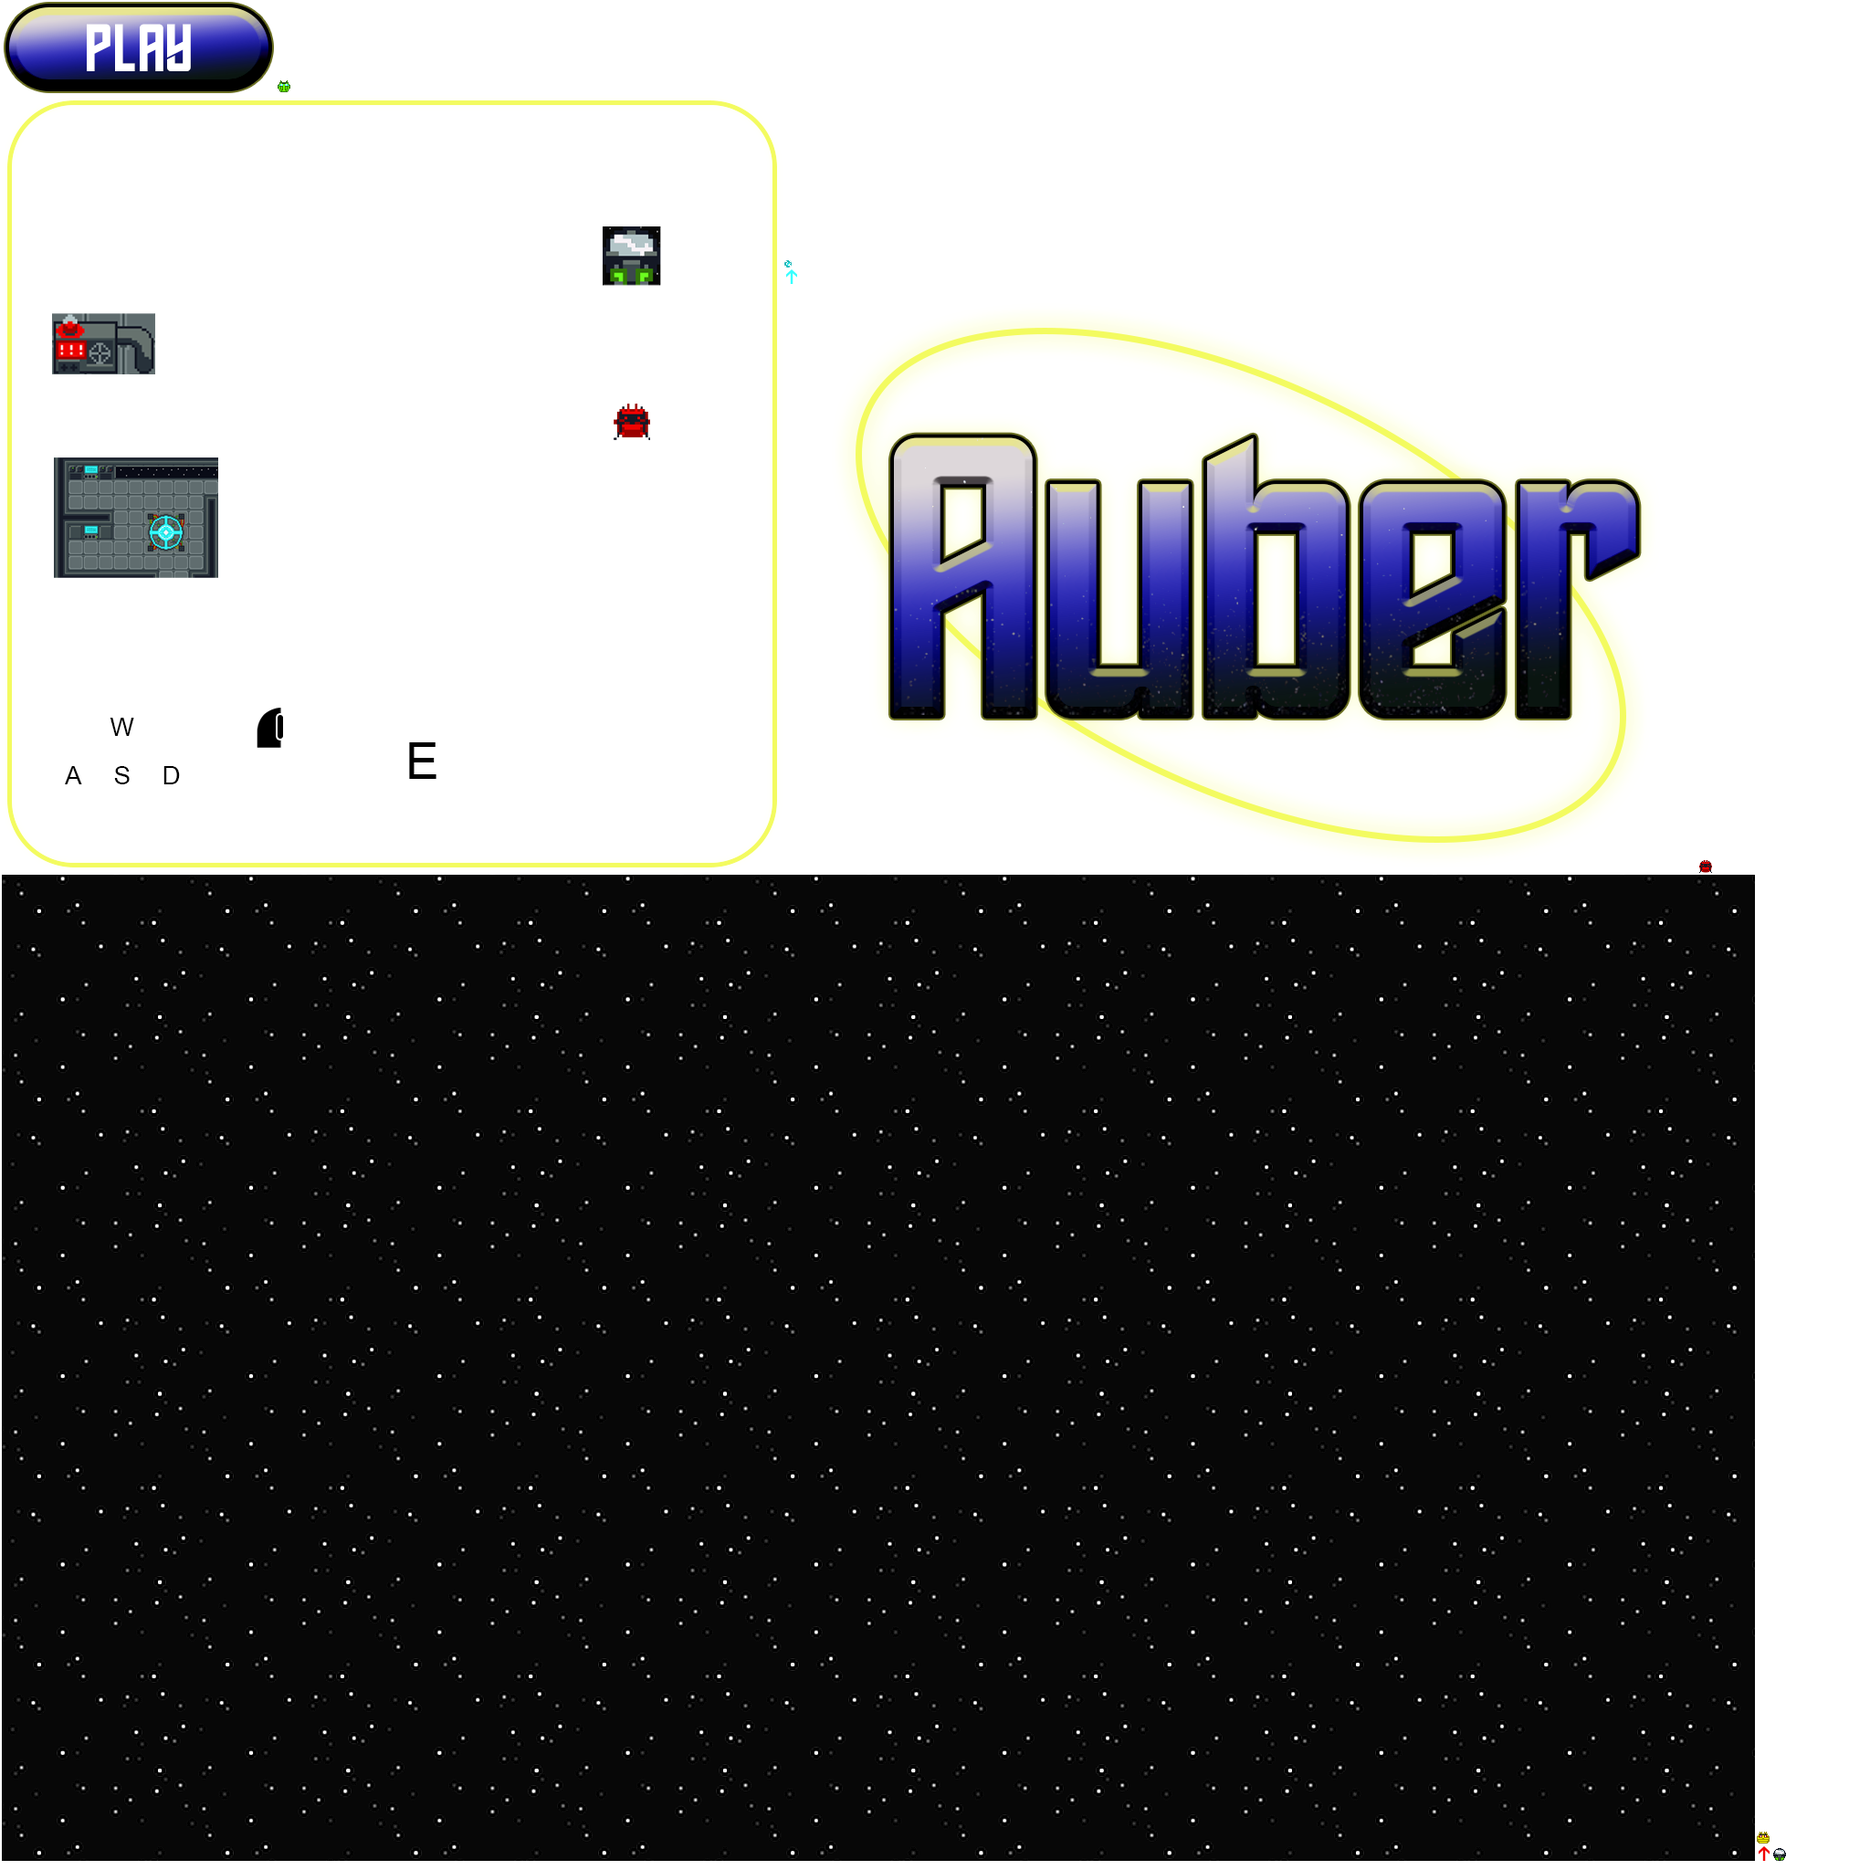
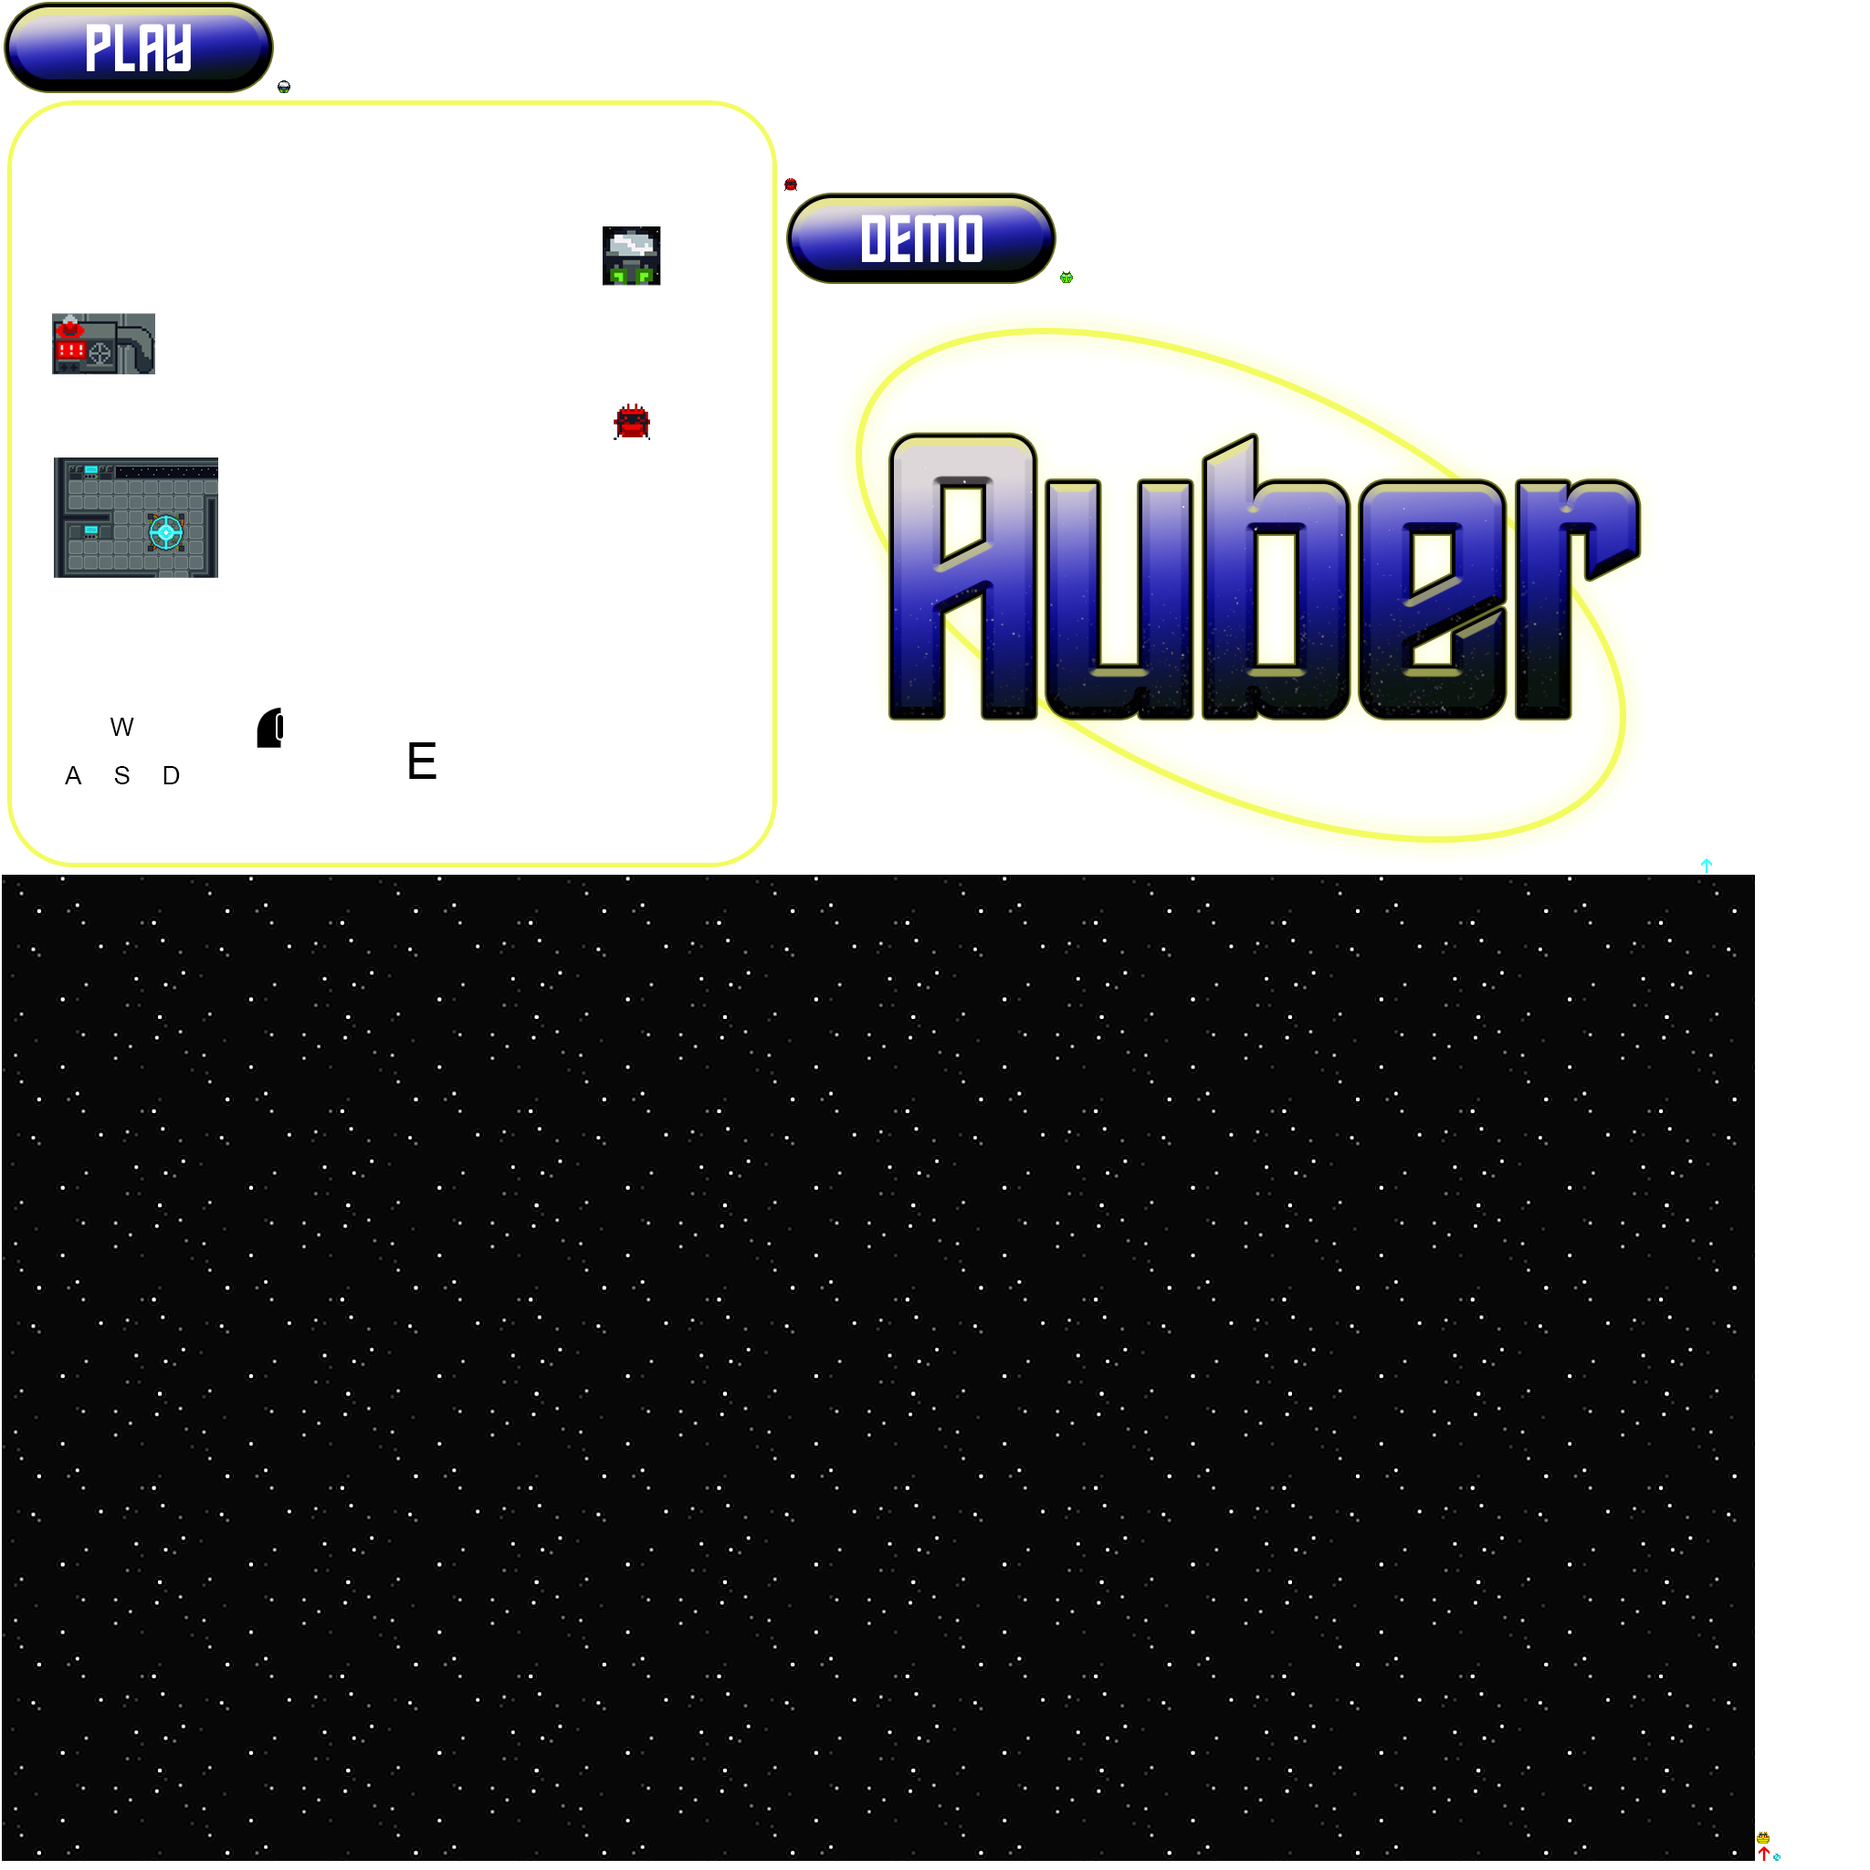
Minor patches and documentation

Changed region(s): [[0.4062, 0.0938, 0.5625, 0.1562]]

diff --git a/docs/index.html b/docs/index.html
@@ -36,6 +36,8 @@
             <p><a href="https://drive.google.com/file/d/1b0WwViahdJieSLp-3hllBW_WbkHII0A9/view?usp=sharing">Build 6 [15/11/2020]</a></p>
             <p><a href="https://drive.google.com/file/d/1KB9dTB3H7jzaiYgokorHxR-agDGJjYHX/view?usp=sharing">Build 7 [23/11/2020]</a></p>
             <p><a href="https://drive.google.com/file/d/1qX3ZOBYz0F82QzppGx49z7LwMZE-JmbS/view?usp=sharing">Release Candidate 1</a></p>
+            <p><a href="https://drive.google.com/file/d/1Tz0rxqM8xz5jIVdVNi4czY7Xiu7SDz0z/view?usp=sharing">Release Candidate 2</a></p>
+            <p><a href="https://drive.google.com/file/d/1jZQ6Hs0jpN5ZhrIdE0khuhEInpy4adUb/view?usp=sharing">Final Build</a></p>
             <h3 id="assessment-documents">Assessment Documents</h3>
             <p><a href="pdfs/auberbrief.pdf">Auber Brief</a></p>
             <p><a href="pdfs/assessmentbrief.pdf">Assessment Brief</a></p>

diff --git a/core/src/com/threecubed/auber/pathfinding/NavigationMesh.java b/core/src/com/threecubed/auber/pathfinding/NavigationMesh.java
@@ -3,8 +3,7 @@ package com.threecubed.auber.pathfinding;
 import com.badlogic.gdx.maps.tiled.TiledMapTileLayer;
 import com.badlogic.gdx.maps.tiled.TiledMapTileLayer.Cell;
 import com.badlogic.gdx.math.Vector2;
-import com.threecubed.auber.World;
-
+import com.threecubed.auber.entities.GameEntity;
 import java.util.ArrayList;
 import java.util.Arrays;
 import java.util.Collections;
@@ -222,7 +221,32 @@ public class NavigationMesh {
   }
 
   /**
-   * Return the euclidian distance between 2 points.
+   * Get the coordinates of the furthest point from the given entity.
+   *
+   * @param entity The entity to find the furthest point from
+   * @return The world coordinates of the furthest point from this entity
+   * */
+  public Vector2 getFurthestPointFromEntity(GameEntity entity) {
+    int[] tileCoordinates = getTilemapCoordinates(entity.position.x, entity.position.y);
+    float longestDistance = 0;
+    int[] longestDistanceCoordinates = {0, 0};
+    for (int y = 0; y < mesh.length; y++) {
+      for (int x = 0; x < mesh[0].length; x++) {
+        if (cellAccessible(x, y)) {
+          int[] currentCellCoords = {x, y};
+          float distance = getEuclidianDistance(tileCoordinates, currentCellCoords);
+          if (distance > longestDistance) {
+            longestDistance = distance;
+            longestDistanceCoordinates = currentCellCoords;
+          }
+        }
+      }
+    }
+    return getWorldCoordinates(longestDistanceCoordinates[0], longestDistanceCoordinates[1]);
+  }
+
+  /**
+   * Return the euclidian distance between 2 float arrays (world coordinates).
    *
    * @param firstPoint The first point to test from
    * @param secondPoint The second point to test from
@@ -235,6 +259,14 @@ public class NavigationMesh {
     return (float) Math.sqrt(Math.pow(horizontalDistance, 2) + Math.pow(verticalDistance, 2));
   }
 
+  /**
+   * Return the euclidian distance between 2 integer arrays (tilemap coordinates).
+   *
+   * @param firstPoint The first point to test from
+   * @param secondPoint The second point to test from
+   *
+   * @return The euclidian distance between the 2 points
+   * */
   public static float getEuclidianDistance(int[] firstPoint, int[] secondPoint) {
     float[] convertedFirstPoint = {(float) firstPoint[0], (float) firstPoint[1]};
     float[] convertedSecondPoint = {(float) secondPoint[0], (float) secondPoint[1]};

diff --git a/core/src/com/threecubed/auber/entities/Infiltrator.java b/core/src/com/threecubed/auber/entities/Infiltrator.java
@@ -22,12 +22,24 @@ public class Infiltrator extends Npc {
   public boolean exposed = false;
   Sprite unexposedSprite;
 
+  /**
+   * Initialise an infiltrator at given coordinates.
+   *
+   * @param x The x position of the infiltrator
+   * @param y The y position of the infiltrator
+   * @param world The game world
+   * */
   public Infiltrator(float x, float y, World world) {
     super(x, y, world);
     navigateToRandomSystem(world);
 
   }
 
+  /**
+   * Initialise the infiltrator at a random position.
+   *
+   * @param world The game world
+   * */
   public Infiltrator(World world) {
     super(world);
     navigateToRandomSystem(world);
@@ -52,7 +64,7 @@ public class Infiltrator extends Npc {
     if (oldState != States.FLEEING) {
       if (!playerNearby(world)
           && Utils.randomFloatInRange(world.randomNumberGenerator, 0, 1)
-          > World.SYSTEM_SABOTAGE_CHANCE) {
+          < World.SYSTEM_SABOTAGE_CHANCE) {
         attackNearbySystem(world);
       } else {
         idleForGivenTime(world, Utils.randomFloatInRange(world.randomNumberGenerator, 5f, 8f));
@@ -61,7 +73,7 @@ public class Infiltrator extends Npc {
   }
 
   @Override
-  public void handleTeleporterShot(World world) {
+  public void handleTeleporterShot(final World world) {
     if (state == States.ATTACKING_SYSTEM) {
       RectangleMapObject system = getNearbyObjects(World.map);
       if (system != null) {
@@ -74,7 +86,18 @@ public class Infiltrator extends Npc {
       exposed = true;
       fireProjectileAtPlayer(world);
       sprite = world.atlas.createSprite("infiltrator");
-      navigateToNearestFleepoint(world);
+      state = States.FLEEING;
+      navigateToFurthestPointFromPlayer(world);
+      npcTimer.scheduleTask(new Task() {
+        @Override
+        public void run() {
+          if (exposed) {
+            fireProjectileAtPlayer(world);
+          } else {
+            cancel();
+          }
+        }
+      }, World.INFILTRATOR_FIRING_INTERVAL, World.INFILTRATOR_FIRING_INTERVAL);
     } else {
       position.x = Utils.randomFloatInRange(world.randomNumberGenerator,
           World.BRIG_BOUNDS[0][0], World.BRIG_BOUNDS[1][0]);

diff --git a/core/src/com/threecubed/auber/entities/Npc.java b/core/src/com/threecubed/auber/entities/Npc.java
@@ -1,13 +1,11 @@
 package com.threecubed.auber.entities;
 
-import com.badlogic.gdx.graphics.Texture;
 import com.badlogic.gdx.graphics.g2d.Sprite;
 import com.badlogic.gdx.maps.objects.RectangleMapObject;
 import com.badlogic.gdx.math.Circle;
 import com.badlogic.gdx.math.Vector2;
 import com.badlogic.gdx.utils.Timer;
 import com.badlogic.gdx.utils.Timer.Task;
-import com.threecubed.auber.AuberGame;
 import com.threecubed.auber.Utils;
 import com.threecubed.auber.World;
 import com.threecubed.auber.pathfinding.NavigationMesh;
@@ -133,6 +131,16 @@ public abstract class Npc extends GameEntity {
   }
 
   /**
+   * Navigate to the furthest point from the player.
+   *
+   * @param world The game world
+   * */
+  public void navigateToFurthestPointFromPlayer(World world) {
+    Vector2 furthestPoint = navigationMesh.getFurthestPointFromEntity(world.player);
+    currentPath = navigationMesh.generateWorldPathToPoint(position, furthestPoint);
+  }
+
+  /**
    * Control the state the NPC is in and fire any necessary events when need be.
    *
    * @param world The game world
@@ -219,10 +227,12 @@ public abstract class Npc extends GameEntity {
     npcTimer.scheduleTask(new Task() {
       @Override
       public void run() {
-        state = States.NAVIGATING;
+        if (aiEnabled) {
+          state = States.NAVIGATING;
 
-        // Pick new system to navigate to
-        navigateToRandomSystem(world);
+          // Pick new system to navigate to
+          navigateToRandomSystem(world);
+        }
       }
     }, seconds);
   }

diff --git a/core/src/com/threecubed/auber/entities/Player.java b/core/src/com/threecubed/auber/entities/Player.java
@@ -93,16 +93,17 @@ public class Player extends GameEntity {
 
 
       if (Gdx.input.isButtonPressed(Input.Buttons.LEFT) && teleporterRayCoordinates.isZero()) {
-        world.auberTeleporterCharge = Math.min(world.auberTeleporterCharge + World.AUBER_CHARGE_RATE,
-                                               1f);
+        world.auberTeleporterCharge = Math.min(world.auberTeleporterCharge
+            + World.AUBER_CHARGE_RATE, 1f);
       } else {
         if (world.auberTeleporterCharge > 0.95f) {
           world.auberTeleporterCharge = 0;
 
           // Scare entities
+          teleporterRayCoordinates = handleRayCollisions(world);
           for (GameEntity entity : world.getEntities()) {
             float entityDistance = NavigationMesh.getEuclidianDistance(
-                new float[] {position.x, position.y},
+                new float[] {teleporterRayCoordinates.x, teleporterRayCoordinates.y},
                 new float[] {entity.position.x, entity.position.y}
                 );
             if (entityDistance < World.NPC_EAR_STRENGTH && entity instanceof Npc) {
@@ -119,7 +120,6 @@ public class Player extends GameEntity {
             }
           }
 
-          teleporterRayCoordinates = handleRayCollisions(world);
           playerTimer.scheduleTask(new Task() {
             @Override
             public void run() {

diff --git a/core/src/com/threecubed/auber/screens/GameOverScreen.java b/core/src/com/threecubed/auber/screens/GameOverScreen.java
@@ -24,6 +24,7 @@ public class GameOverScreen extends ScreenAdapter {
   BitmapFont font = new BitmapFont();
   SpriteBatch batch = new SpriteBatch();
   GlyphLayout layout = new GlyphLayout();
+  String resultText;
 
   /**
    * Instantiate the screen with an {@link AuberGame} object.
@@ -33,12 +34,15 @@ public class GameOverScreen extends ScreenAdapter {
   public GameOverScreen(AuberGame game, boolean userWon) {
     this.game = game;
     font.getData().setScale(2);
-    String resultText = "LOSE";
+
+    resultText = "Game Over, you ";
     if (userWon) {
-      resultText = "WIN!";
+      resultText += "win!";
+    } else {
+      resultText += "lose.";
     }
-    layout.setText(font, "GAME OVER, YOU "
-        .concat(resultText).concat(". PRESS ESCAPE TO RETURN TO THE MENU"));
+    resultText += "\nPress \"Escape\" to return to the menu";
+    layout.setText(font, resultText);
   }
 
   @Override
@@ -52,7 +56,7 @@ public class GameOverScreen extends ScreenAdapter {
     }
 
     batch.begin();
-    font.draw(batch, "GAME OVER", (Gdx.graphics.getWidth() - layout.width) / 2,
+    font.draw(batch, resultText, (Gdx.graphics.getWidth() - layout.width) / 2,
         300 + (Gdx.graphics.getHeight() - layout.height) / 2);
     batch.end();
   }

diff --git a/core/src/com/threecubed/auber/screens/GameScreen.java b/core/src/com/threecubed/auber/screens/GameScreen.java
@@ -86,7 +86,10 @@ public class GameScreen extends ScreenAdapter {
         world.camera.position.set(entity.position.x, entity.position.y, 0);
         world.camera.update();
       } else if (entity instanceof Infiltrator) {
-        world.infiltratorCount += 1;
+        Infiltrator infiltrator = (Infiltrator) entity;
+        if (infiltrator.aiEnabled) {
+          world.infiltratorCount += 1;
+        }
       }
     }
     batch.end();
@@ -94,7 +97,12 @@ public class GameScreen extends ScreenAdapter {
 
     if (world.infiltratorCount < World.MAX_INFILTRATORS_IN_GAME
         && world.infiltratorsAddedCount < World.MAX_INFILTRATORS) {
-      world.queueEntityAdd(new Infiltrator(world));
+      Infiltrator newInfiltrator = new Infiltrator(world);
+      while (newInfiltrator.entityOnScreen(world)) {
+        newInfiltrator.moveToRandomLocation(world);
+      }
+      world.queueEntityAdd(newInfiltrator);
+      world.infiltratorsAddedCount++;
     }
 
     // Draw the UI

diff --git a/core/src/com/threecubed/auber/World.java b/core/src/com/threecubed/auber/World.java
@@ -149,9 +149,13 @@ public class World {
   /** The distance the infiltrator can see. Default: 5 tiles */
   public static final float INFILTRATOR_SIGHT_RANGE = 80f;
   /** The speed at which infiltrator projectiles should travel. */
-  public static final float INFILTRATOR_PROJECTILE_SPEED = 12f;
+  public static final float INFILTRATOR_PROJECTILE_SPEED = 4f;
   /** Maximum infiltrators in a full game of Auber (including defated ones). */
   public static final int MAX_INFILTRATORS = 8;
+  /** The interval at which the infiltrator should attack the player when exposed */
+  public static final float INFILTRATOR_FIRING_INTERVAL = 5f;
+  /** The damage a projectile should do. */
+  public static final float INFILTRATOR_PROJECTILE_DAMAGE = 0.2f;
   /**
    * Max infiltrators alive at a given point, Should always be greater or equal to
    * {@link World#MAX_INFILTRATORS}.

diff --git a/core/src/com/threecubed/auber/entities/Projectile.java b/core/src/com/threecubed/auber/entities/Projectile.java
@@ -22,6 +22,14 @@ public class Projectile extends GameEntity {
     }
   }
 
+  /**
+   * Initialise a projectile.
+   *
+   * @param x The x coordinate to initialise at
+   * @param y The y coordinate to initialise at
+   * @param velocity A {@link Vector2} representing the velocity of the projectile
+   * @param originEntity The entity that the projectile originated from
+   * */
   public Projectile(float x, float y, Vector2 velocity, GameEntity originEntity,
       CollisionActions action, World world) {
     super(x, y, world.atlas.createSprite("projectile"));
@@ -74,7 +82,7 @@ public class Projectile extends GameEntity {
       default:
         break;
     }
-    world.player.health -= 0.5f;
+    world.player.health -= World.INFILTRATOR_PROJECTILE_DAMAGE;
   }
 
   private void confusePlayer(final World world) {

diff --git a/core/src/com/threecubed/auber/screens/MenuScreen.java b/core/src/com/threecubed/auber/screens/MenuScreen.java
@@ -66,7 +66,7 @@ public class MenuScreen extends ScreenAdapter {
 
     demoButton = new Button(
         new Vector2(Gdx.graphics.getWidth() / 4, Gdx.graphics.getHeight() / 2 - 150f),
-        1f, game.atlas.createSprite("playButton"), game, onDemoClick
+        1f, game.atlas.createSprite("demoButton"), game, onDemoClick
         );
   }
 
